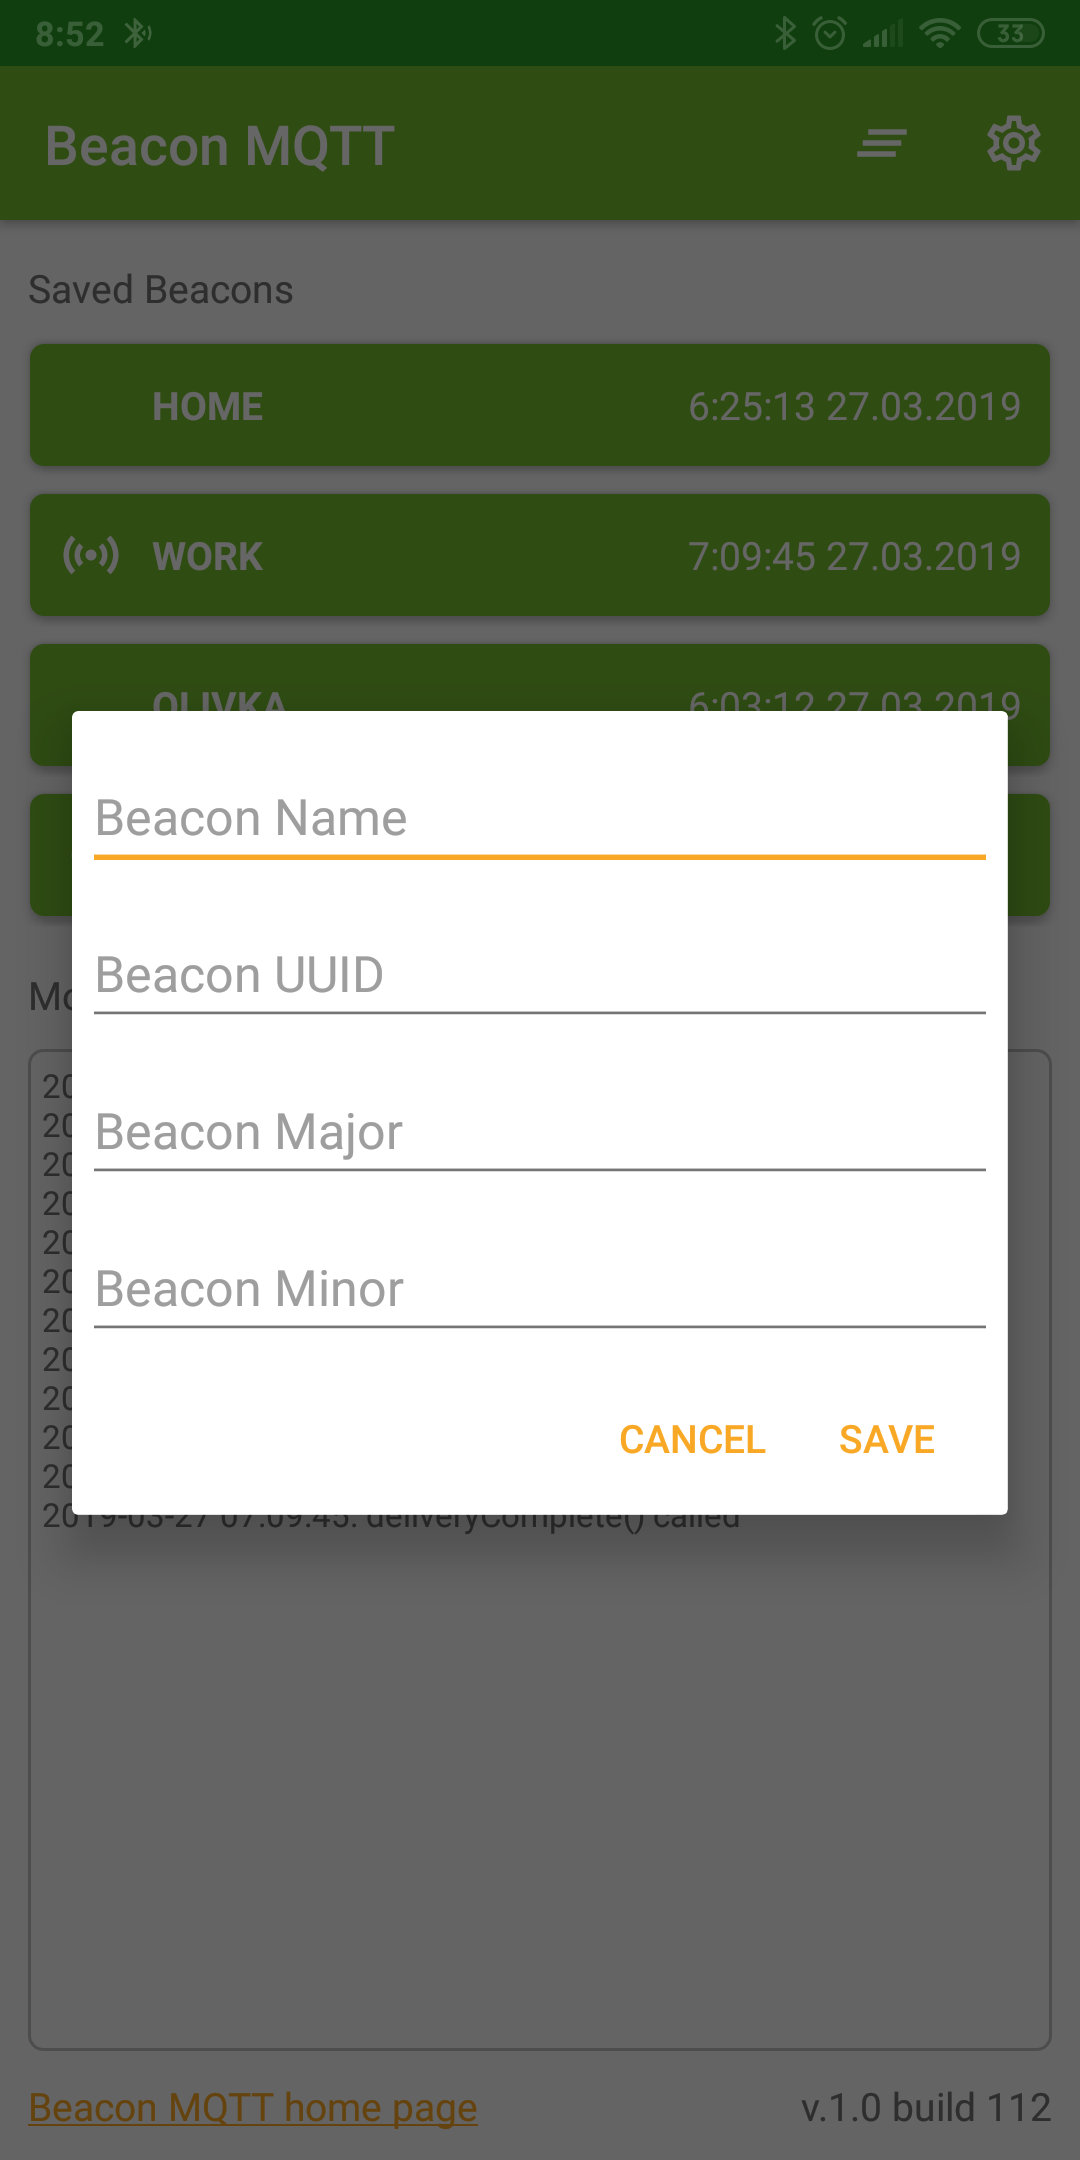
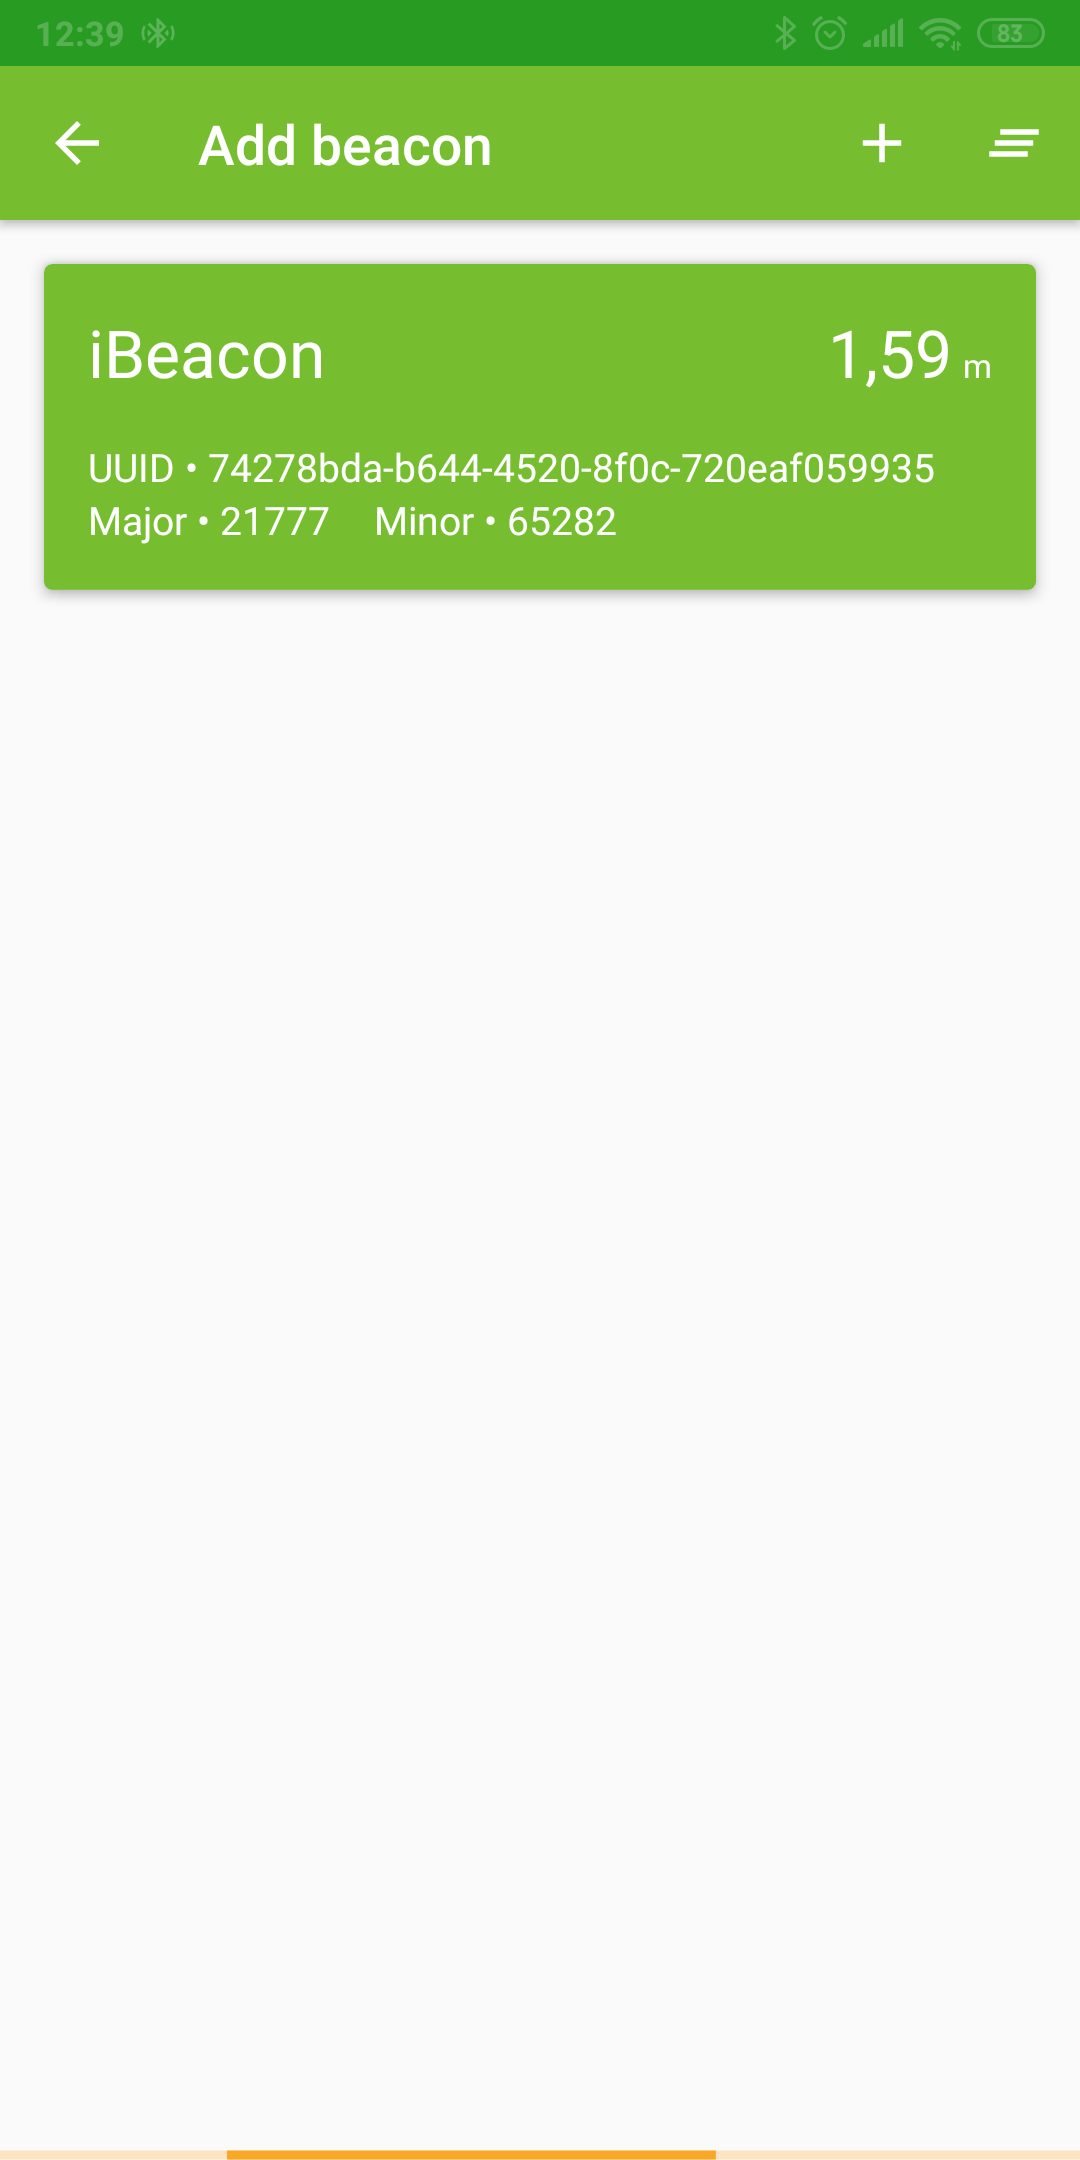
Updated to v0.2

diff --git a/README.md b/README.md
@@ -1,29 +1,40 @@
 # Beacon MQTT
 Simple android application for notifying MQTT server when iBeacon is in range or lost.
 
-Beacon MQTT will be useful for Home Assistant users. It based on AltBeacon and Paho MQTT libraries. It has ugly UI but works perfectly with [MQTT Device Tracker module](https://www.home-assistant.io/components/device_tracker.mqtt/) of my HA.
+Beacon MQTT will be useful for Home Assistant users. It based on AltBeacon and Paho MQTT libraries. It has not so ugly UI but works perfectly with [MQTT Device Tracker module](https://www.home-assistant.io/components/device_tracker.mqtt/) of my HA.
 
 ![combo.png](https://raw.githubusercontent.com/turbo-lab/beacon_mqtt/gh-pages/screenshots/combo.png)
 
 [Main screen](https://raw.githubusercontent.com/turbo-lab/beacon_mqtt/gh-pages/screenshots/1.png)
- | [New beacon](https://raw.githubusercontent.com/turbo-lab/beacon_mqtt/gh-pages/screenshots/1.png)
- | [Delete beacon](https://raw.githubusercontent.com/turbo-lab/beacon_mqtt/gh-pages/screenshots/1.png)
- | [Timing settings](https://raw.githubusercontent.com/turbo-lab/beacon_mqtt/gh-pages/screenshots/1.png)
- | [MQTT settings](https://raw.githubusercontent.com/turbo-lab/beacon_mqtt/gh-pages/screenshots/1.png)
+ | [New beacon](https://raw.githubusercontent.com/turbo-lab/beacon_mqtt/gh-pages/screenshots/2.png)
+ | [Timing settings](https://raw.githubusercontent.com/turbo-lab/beacon_mqtt/gh-pages/screenshots/4.png)
+ | [MQTT settings](https://raw.githubusercontent.com/turbo-lab/beacon_mqtt/gh-pages/screenshots/5.png)
 
 # Download
-You can find latest release of Beacon MQTT on  [github](https://github.com/turbo-lab/android-beacon-mqtt/releases/latest)
+You can find latest release of Beacon MQTT on my  [github page](https://github.com/turbo-lab/android-beacon-mqtt/releases/latest)
 
 # Installation
 Because I don't have Google Play developer account yet you should allow installation of apps from unknown sources.
 
 # Before adding the first beacon
-The detecting process is time critical. You have to disable any application activity restrictions in your android. Without this you will have lots of false beacon losses. It can take some percentage of a battery.
+The detecting process is time critical. You have to disable any application activity restrictions in your android. Without this action you will have lots of false beacon losses.
 
 # Beacons database
-Great! You are ready to add your first beacon. Press "ADD NEW BEACON" and enter Name and IDs of beacon. If you don't know your IDs please use additional android applications. I like [Beacon Scanner](https://play.google.com/store/apps/details?id=com.bridou_n.beaconscanner) from Nicolas Bridoux. For HA users: you should enter the same name as the name of corresponding zone. See [MQTT Device Tracker](https://www.home-assistant.io/components/device_tracker.mqtt/) for more details.
+Great! You are ready to add your first beacon. Press "ADD NEW BEACON" button and wait some time. You will see all beacons in the range. You can differ beacons by the distance. Tap on beacon which you want to add. In dialog write the name of beacon and click save.
 
-To delete the beacon just use long press on it as you running context menu.
+Note for HA users: you should enter the same name as the name of corresponding zone. See [MQTT Device Tracker](https://www.home-assistant.io/components/device_tracker.mqtt/) for more details.
+
+Also you can add beacons that are not in range. Click on plus button of action bar and fill fields manually.
+
+![beacons.png](https://raw.githubusercontent.com/turbo-lab/beacon_mqtt/gh-pages/screenshots/beacons.png)
+
+[Scan in process](https://raw.githubusercontent.com/turbo-lab/beacon_mqtt/gh-pages/screenshots/6.png)
+ | [New beacon](https://raw.githubusercontent.com/turbo-lab/beacon_mqtt/gh-pages/screenshots/2.png)
+ | [Context menu](https://raw.githubusercontent.com/turbo-lab/beacon_mqtt/gh-pages/screenshots/8.png)
+ | [Delete beacon](https://raw.githubusercontent.com/turbo-lab/beacon_mqtt/gh-pages/screenshots/3.png)
+ | [Edit beacon](https://raw.githubusercontent.com/turbo-lab/beacon_mqtt/gh-pages/screenshots/9.png)
+
+To modify or delete the beacon just use long press on it to show context menu.
 
 # Discovery timings
 I suggest next timings:
@@ -47,9 +58,8 @@ To be compatible with [MQTT Device Tracker](https://www.home-assistant.io/compon
 The log screen shows last 1k lines. It helps you with debugging of interaction. You can clear journal by pressing clear button.
 
 # Limitations
-* Only iBeacon is supported
+* Only iBeacon is supported now
 * Just 4 beacons can be added
-* No autofind beacons feature
 * You shouldn't have overlapped beacons
 
 # Known issues
